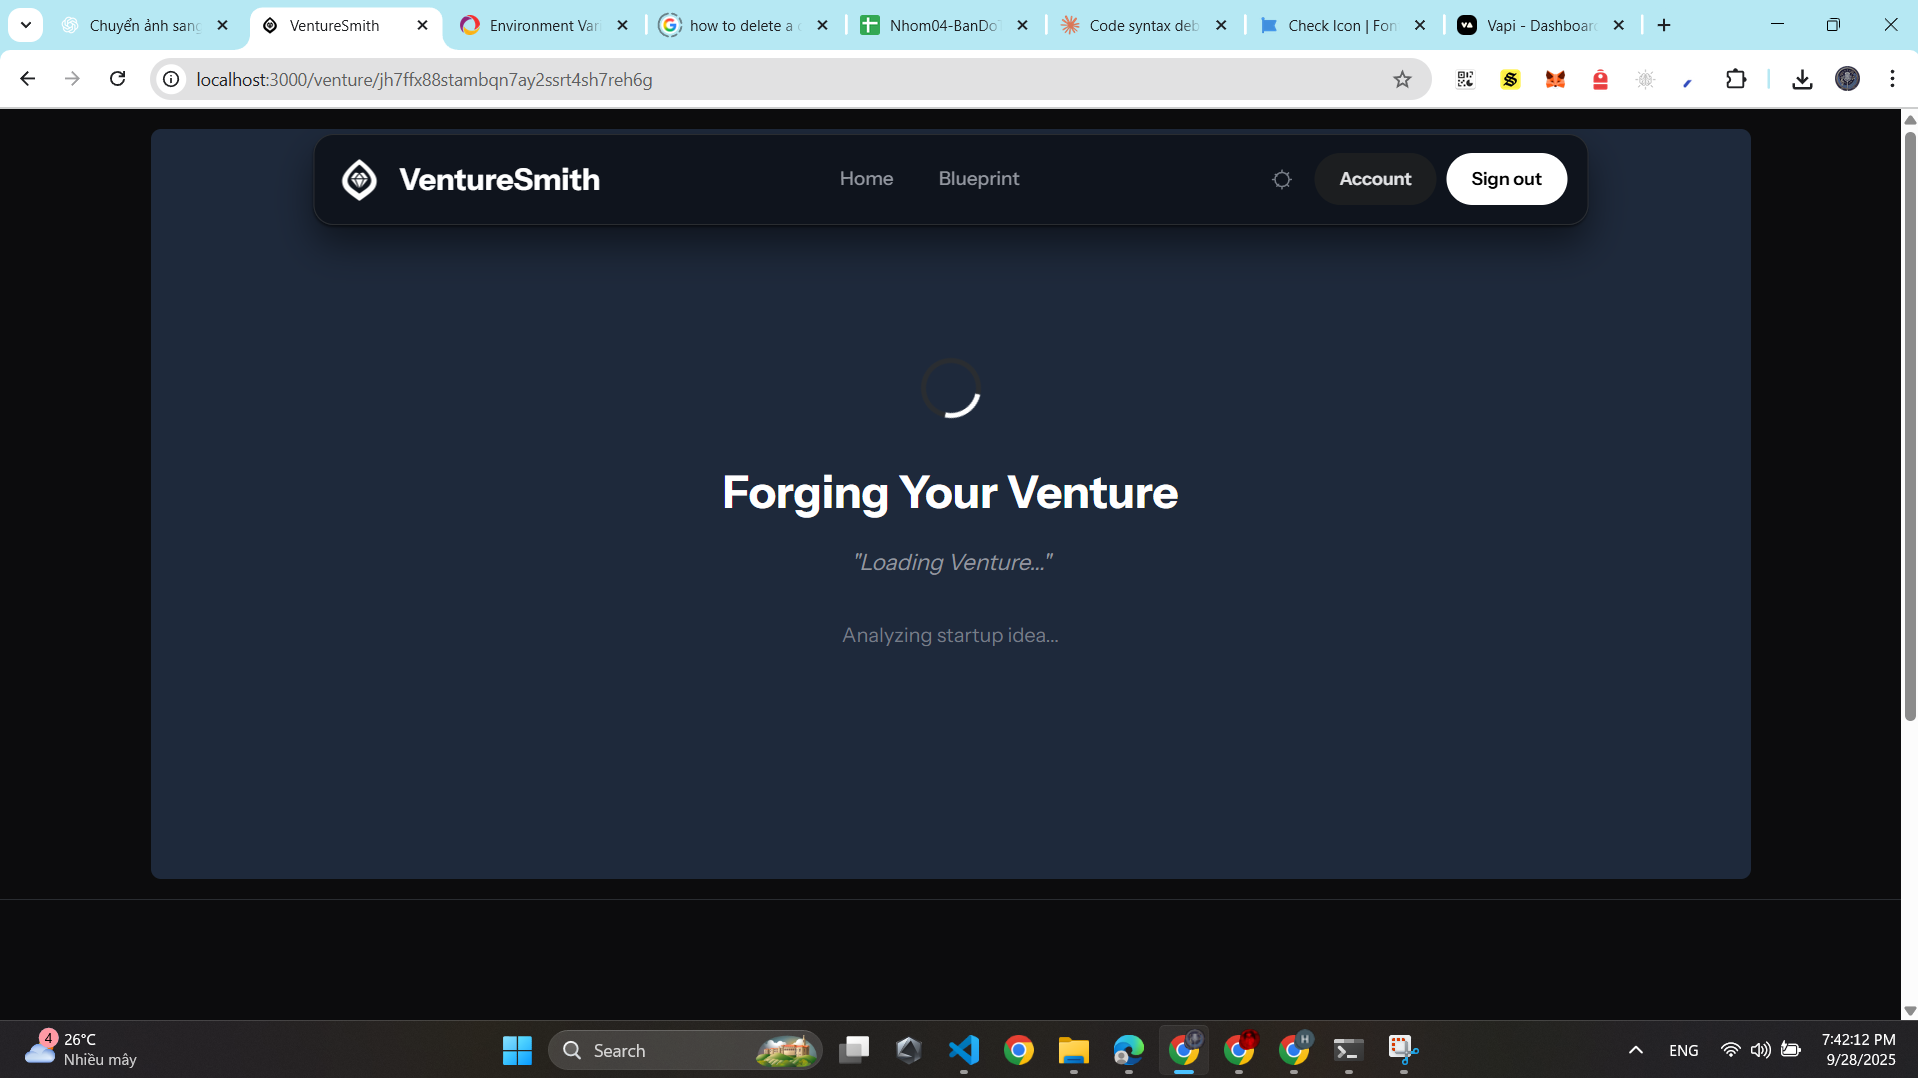
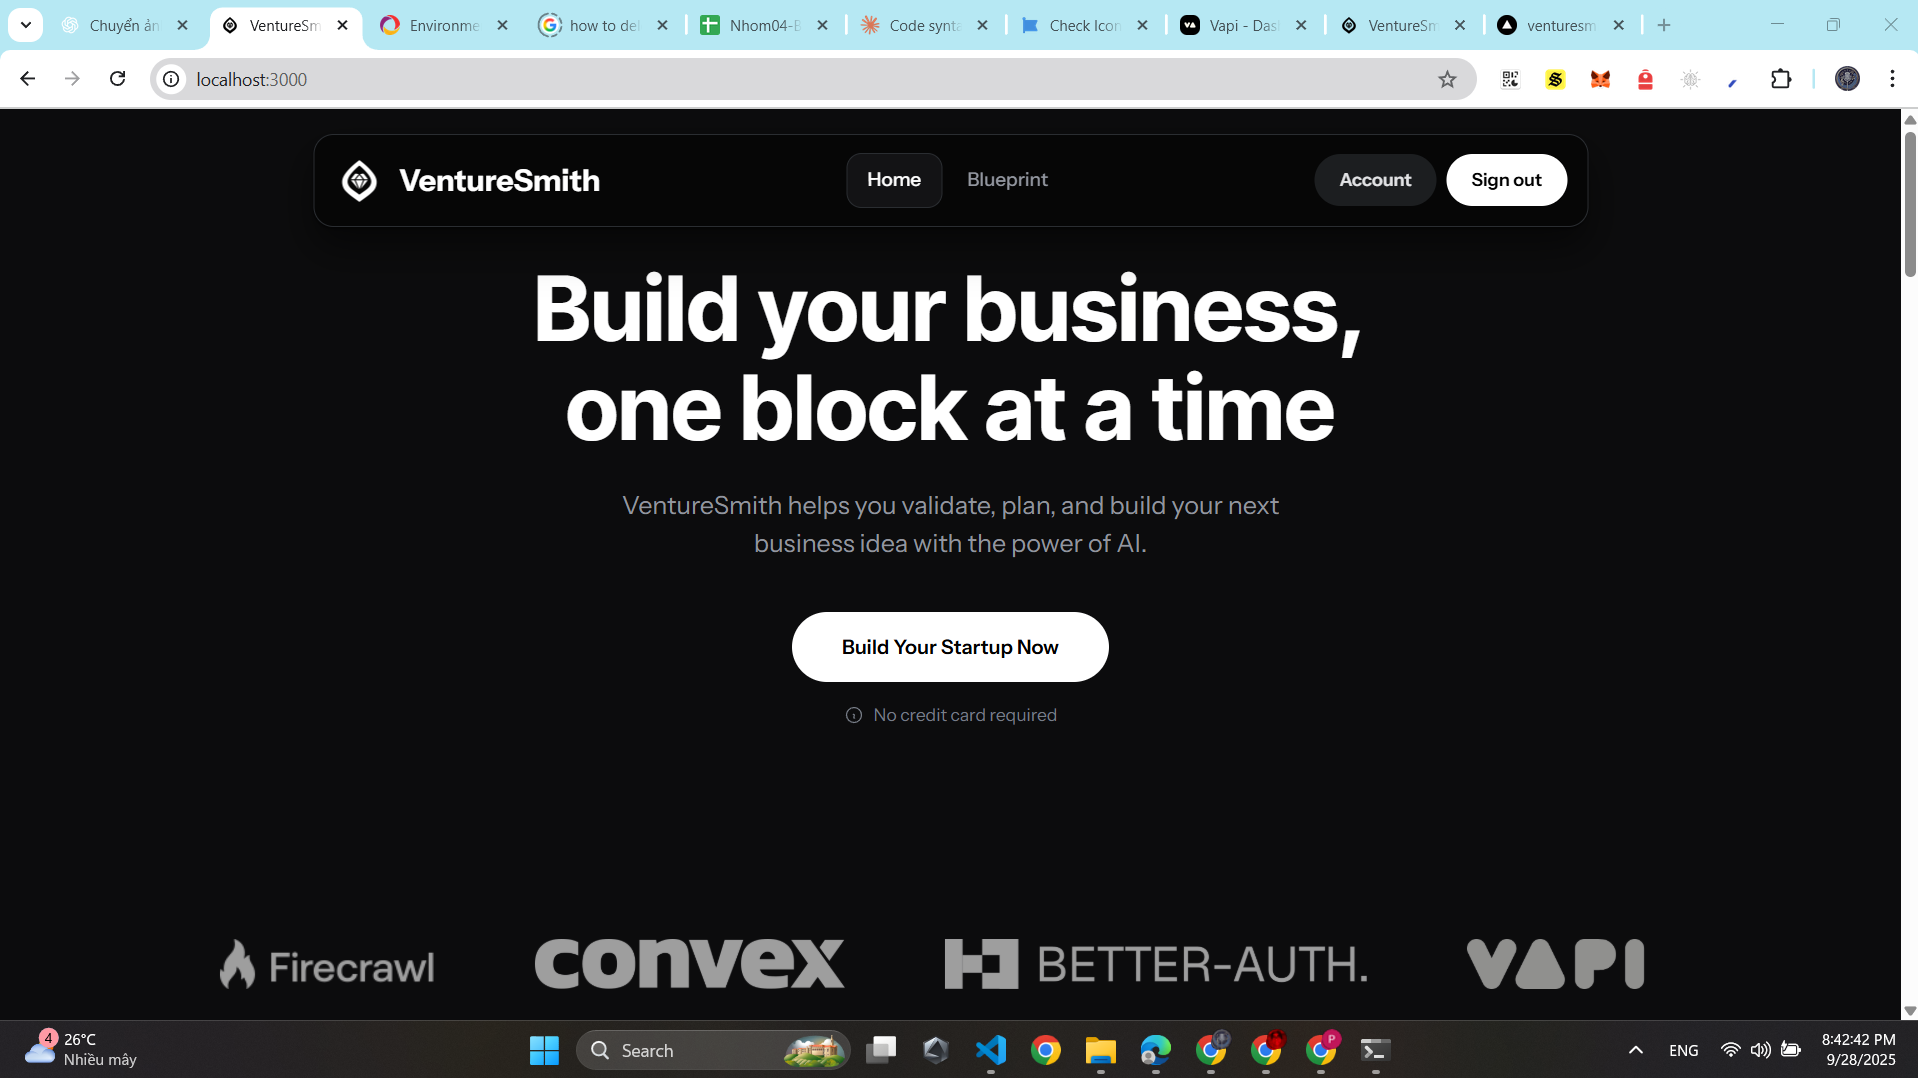
Removed the switch theme button

diff --git a/App.tsx b/App.tsx
@@ -16,7 +16,6 @@ import { useMatch } from 'react-router-dom';
 import { useQuery } from 'convex/react';
 import { api } from './convex/_generated/api';
 import { Id } from './convex/_generated/dataModel';
-import DueDiligenceChecklist from './components/pages/DueDiligenceChecklist';
 import './App.css';
 
 const WorkspaceWithChatbot = () => {
@@ -53,7 +52,6 @@ const App: React.FC = () => {
                             <Route path="/signup" element={<SignUp />} />
                             <Route path="/account" element={<AccountPage />} />
                             <Route path="/venture/:id" element={<WorkspaceWithChatbot />} />
-                            <Route path="/due-diligence-checklist/:startupId" element={<DueDiligenceChecklist />} />
                         </Routes>
                     </div>
                 </main>

diff --git a/components/pages/Header.tsx b/components/pages/Header.tsx
@@ -70,9 +70,9 @@ export const Header: React.FC = () => {
                     </nav>
 
                     <div className="header-actions">
-                        <button onClick={toggleTheme} className="theme-toggle-button" aria-label="Toggle theme">
+                        {/* <button onClick={toggleTheme} className="theme-toggle-button" aria-label="Toggle theme">
                             {theme === 'light' ? <MoonIcon /> : <SunIcon />}
-                        </button>
+                        </button> */}
                         <div className="flex items-center gap-2">
                             {session ? (
                                 <>

diff --git a/components/pages/Home.css b/components/pages/Home.css
@@ -31,6 +31,7 @@ body {
     align-items: center;
     justify-content: center;
     min-height: 80vh;
+    margin-top: 4.5rem;
 }
 
 .hero-section h1,
